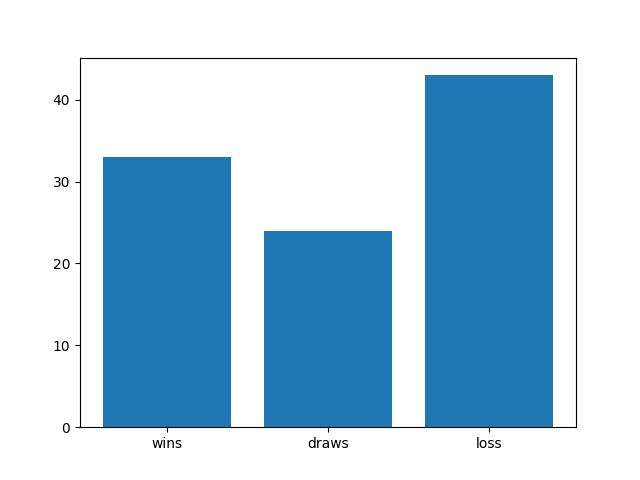
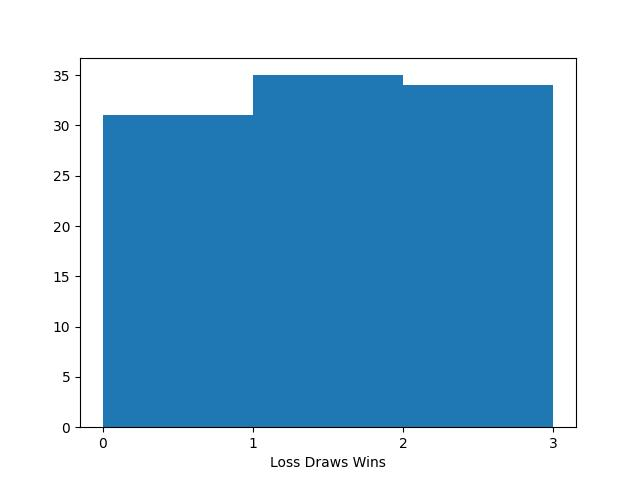
kpn histogram

diff --git a/first/kpn.py b/first/kpn.py
@@ -5,27 +5,7 @@ from generators.prand import LCG
 from scipy.stats import chisquare
 
 
-def generate_histogram(data: dict):
-    labels = list(data.keys())
-    datagroups = list(data.values())
-    bins = len(datagroups)
-
-    fig, ax = plt.subplots(1, 1)
-    ax.bar(labels, datagroups)
-    plt.savefig('hist.jpg')
-
-
-def play():
-    # 2 - win
-    # 1 - draw
-    # 0 - lost
-    result_table = {'wins': 0, 'draws': 0, 'loss': 0}
-
-    gen = LCG()
-    first = [gen.uniform_restricted(1, 3) for _ in range(100)]
-    second = [gen.uniform_restricted(1, 3) for _ in range(100)]
-
-    possible_output_matrix = [
+possible_output_matrix = [
 #        first
 #        k p   n
         [1, 2, 0], #k
@@ -33,23 +13,57 @@ def play():
         [2, 0, 1] # n
     ]
 
+
+def generate_histogram(zipped: zip):
+    temp = []
+
+    for one, two in zipped:
+        one = one - 1
+        two = two - 1
+        temp.append(possible_output_matrix[one][two])
+
+    dataset = list(Counter(temp).values())
+    print(Counter(temp))
+    dist, pvalue = chisquare(dataset)
+    uni = 'YES' if pvalue > 0.05 else 'NO'
+    print(f"{dist:12.3f} {pvalue:12.8f} {uni:^8}")
+
+    fig, ax = plt.subplots(1, 1)
+    bins=[0, 1, 2, 3]
+    ax.hist(temp, bins = bins)
+    plt.xticks(bins)
+    plt.xlabel('Loss Draws Wins')
+    plt.savefig('hist.jpg')
+
+
+def play():
+    # 2 - win
+    # 1 - draw
+    # 0 - lost
+
+    gen = LCG()
+    first = [gen.uniform_restricted(1, 3) for _ in range(100)]
+    second = [gen.uniform_restricted(1, 3) for _ in range(100)]
+
     dataset = list(Counter(second).values())
     dist, pvalue = chisquare(dataset)
     uni = 'YES' if pvalue > 0.05 else 'NO'
     print(f"{dist:12.3f} {pvalue:12.8f} {uni:^8}")
 
     zipped = zip(first, second)
+    # print(zipped)
 
-    for one, two in zipped:
-        one = one - 1
-        two = two - 1
-        if possible_output_matrix[one][two] == 0:
-            result_table['loss'] += 1
-        if possible_output_matrix[one][two] == 1:
-            result_table['draws'] += 1
-        if possible_output_matrix[one][two] == 2:
-            result_table['wins'] += 1
-    return result_table
+    # for one, two in zipped:
+    #     one = one - 1
+    #     two = two - 1
+    #     if possible_output_matrix[one][two] == 0:
+    #         result_table['loss'] += 1
+    #     if possible_output_matrix[one][two] == 1:
+    #         result_table['draws'] += 1
+    #     if possible_output_matrix[one][two] == 2:
+    #         result_table['wins'] += 1
+    # return result_table
+    return zipped
 
 
 if __name__ == "__main__":
